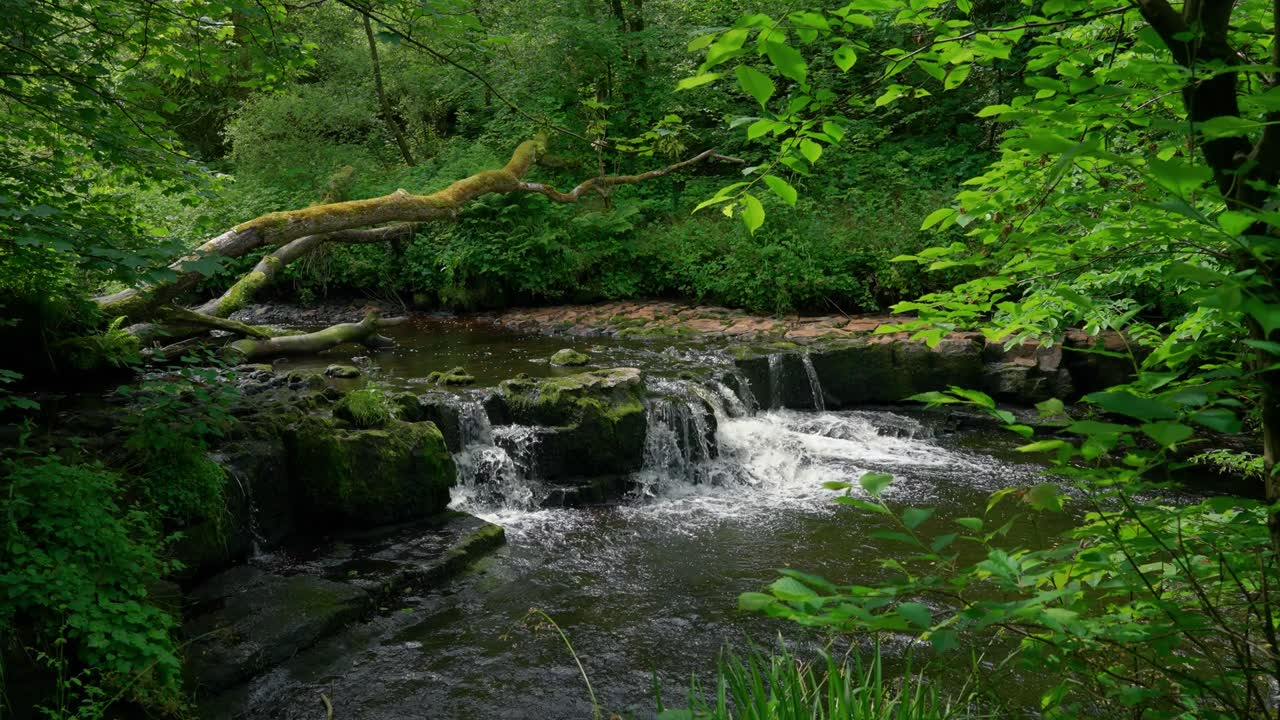
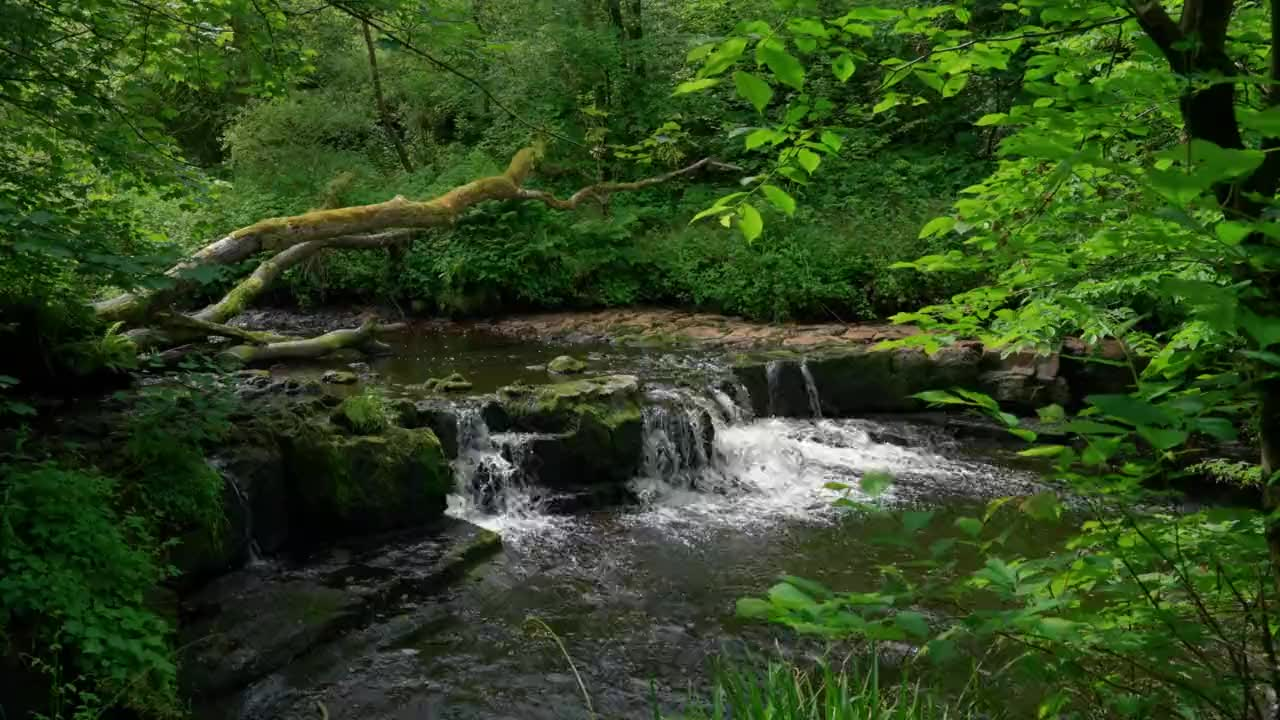
Add files via upload

diff --git a/index.html b/index.html
@@ -19,15 +19,71 @@
 </head>
 <body>
 
-<!-- Fixed-background ambient cascade video -->
+<!-- Fixed-background ambient cascade video.
+     Two stacked videos handle the loop via JS crossfade so there is no
+     visible seam at the loop boundary. Cache-busting query string forces
+     fresh fetches when the asset is updated. -->
 <div class="page-bg" aria-hidden="true">
-  <video class="page-bg-video"
-         autoplay muted loop playsinline preload="metadata"
-         poster="hero-poster.jpg">
-    <source src="hero-stream-prod.mp4" type="video/mp4" />
+  <video class="page-bg-video page-bg-video--a"
+         autoplay muted playsinline preload="auto">
+    <source src="hero-stream-prod.mp4?v=3" type="video/mp4" />
+  </video>
+  <video class="page-bg-video page-bg-video--b"
+         muted playsinline preload="auto">
+    <source src="hero-stream-prod.mp4?v=3" type="video/mp4" />
   </video>
   <div class="page-bg-tint"></div>
 </div>
+<script>
+  /* Smooth fade-in of first video over the CSS poster, plus seamless
+     loop via crossfade between two video elements. */
+  (function() {
+    var vidA = document.querySelector('.page-bg-video--a');
+    var vidB = document.querySelector('.page-bg-video--b');
+    if (!vidA || !vidB) return;
+
+    var FADE = 0.7; // seconds of crossfade overlap at loop boundary
+
+    /* Reveal the active video once it actually has frames painting */
+    vidA.addEventListener('playing', function reveal() {
+      vidA.classList.add('is-active');
+      vidA.removeEventListener('playing', reveal);
+    });
+
+    /* Watch the active video's currentTime; when nearing the end,
+       start the inactive video at 0 and crossfade the active out. */
+    function watchForSwap(active, inactive) {
+      function onTime() {
+        if (!active.duration || isNaN(active.duration)) return;
+        if (active.currentTime >= active.duration - FADE) {
+          active.removeEventListener('timeupdate', onTime);
+          inactive.currentTime = 0;
+          var p = inactive.play();
+          if (p && typeof p.catch === 'function') p.catch(function(){});
+          inactive.classList.add('is-active');
+          active.classList.remove('is-active');
+          /* After fade completes, pause and rewind the now-inactive */
+          setTimeout(function() {
+            active.pause();
+            active.currentTime = 0;
+          }, FADE * 1000);
+          /* Set up next swap going the other direction */
+          watchForSwap(inactive, active);
+        }
+      }
+      active.addEventListener('timeupdate', onTime);
+    }
+
+    /* Start the swap loop once vidA has metadata */
+    if (vidA.readyState >= 1) {
+      watchForSwap(vidA, vidB);
+    } else {
+      vidA.addEventListener('loadedmetadata', function() {
+        watchForSwap(vidA, vidB);
+      }, { once: true });
+    }
+  })();
+</script>
 
 <div class="bg-stage" aria-hidden="true"></div>
 

diff --git a/styles.css b/styles.css
@@ -1624,13 +1624,26 @@ section { padding: clamp(72px, 10vw, 132px) 0; position: relative; }
   z-index: -1;
   pointer-events: none;
   overflow: hidden;
+  /* Poster image as CSS background — shows instantly on first paint,
+     before either video has any frames ready. Eliminates load flicker. */
+  background-image: url('hero-poster.jpg?v=3');
+  background-size: cover;
+  background-position: center 60%;
+  background-color: #0B1220;
 }
 
 .page-bg-video {
+  position: absolute;
+  inset: 0;
   width: 100%;
   height: 100%;
   object-fit: cover;
   object-position: center 60%;   /* keeps the cascade prominent in frame */
+  opacity: 0;                    /* hidden until JS toggles is-active */
+  transition: opacity 0.7s ease;
+}
+.page-bg-video.is-active {
+  opacity: 1;
 }
 
 .page-bg-tint {